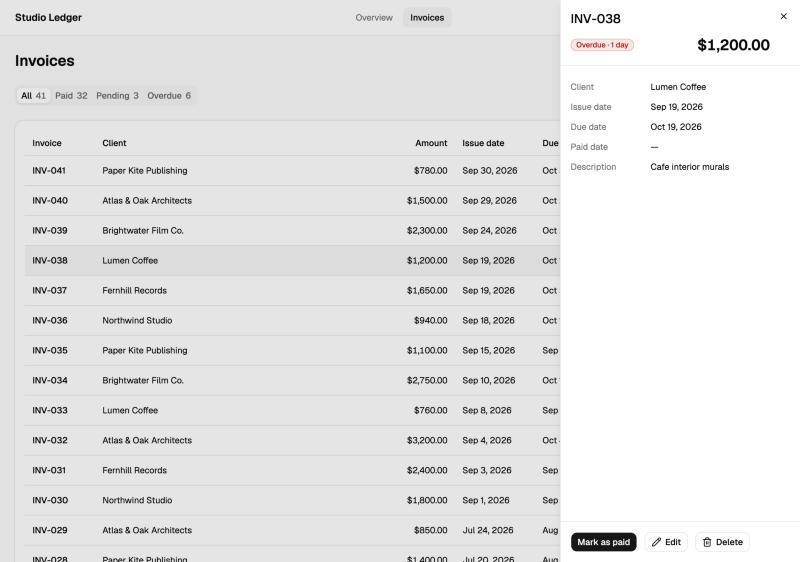
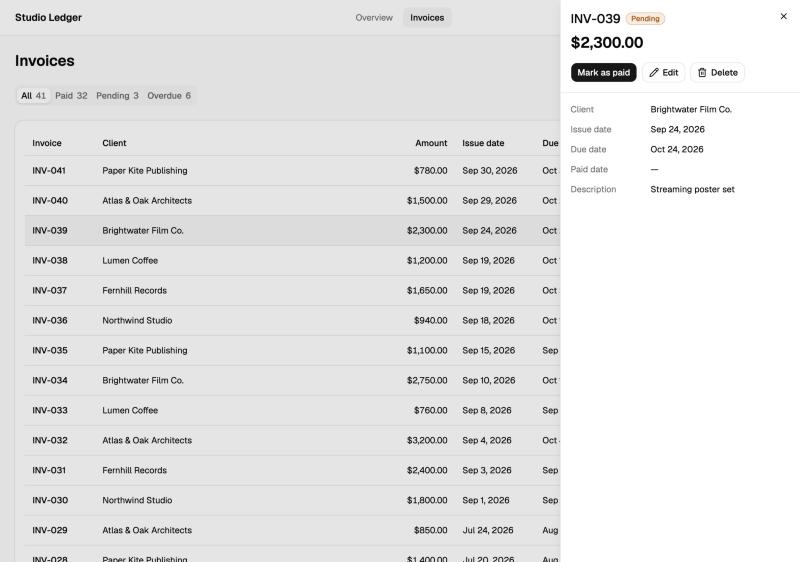
Put the status beside the invoice number and the actions under the amount
Tighter spacing in the invoice panel: number and status on one line,
the amount below, then Mark as paid / Edit / Delete, then the details.

diff --git a/src/components/invoices/invoice-sheet.tsx b/src/components/invoices/invoice-sheet.tsx
@@ -54,17 +54,64 @@ function InvoiceDetails({
 
   return (
     <>
-      <SheetHeader className="gap-3 border-b pr-12">
-        <SheetTitle className="text-xl">{invoice.invoiceNumber}</SheetTitle>
-        <SheetDescription className="sr-only">Invoice details</SheetDescription>
-        <div className="flex items-center justify-between gap-4">
+      <SheetHeader className="gap-2 border-b pr-12">
+        <div className="flex items-center gap-2">
+          <SheetTitle className="text-xl">{invoice.invoiceNumber}</SheetTitle>
           <InvoiceStatusBadge
             status={status}
             daysOverdue={status === 'Overdue' ? daysBetween(invoice.dueDate, today) : undefined}
           />
-          <p className="text-2xl font-semibold tabular-nums">
-            {formatMoney(invoice.amount, APP_CURRENCY)}
-          </p>
+        </div>
+        <SheetDescription className="sr-only">Invoice details</SheetDescription>
+        <p className="text-2xl font-semibold text-foreground tabular-nums">
+          {formatMoney(invoice.amount, APP_CURRENCY)}
+        </p>
+        <div className="flex flex-wrap gap-2 pt-2">
+          {status === 'Paid' ? (
+            <Button
+              variant="outline"
+              onClick={() => {
+                markInvoiceNotPaid(invoice.id)
+                toast.success(`${invoice.invoiceNumber} is no longer Paid`)
+              }}
+            >
+              Mark as not paid
+            </Button>
+          ) : (
+            <MarkPaidDialog invoice={invoice} trigger={<Button>Mark as paid</Button>} />
+          )}
+          <Button variant="outline" onClick={() => setEditing(true)}>
+            <PencilIcon /> Edit
+          </Button>
+          <AlertDialog>
+            <AlertDialogTrigger asChild>
+              <Button variant="outline">
+                <Trash2Icon /> Delete
+              </Button>
+            </AlertDialogTrigger>
+            <AlertDialogContent>
+              <AlertDialogHeader>
+                <AlertDialogTitle>Delete {invoice.invoiceNumber}?</AlertDialogTitle>
+                <AlertDialogDescription>
+                  {formatMoney(invoice.amount, APP_CURRENCY)} for {client?.name ?? 'Unknown client'}{' '}
+                  is removed from every total. This can't be undone.
+                </AlertDialogDescription>
+              </AlertDialogHeader>
+              <AlertDialogFooter>
+                <AlertDialogCancel>Cancel</AlertDialogCancel>
+                <AlertDialogAction
+                  variant="destructive"
+                  onClick={() => {
+                    deleteInvoice(invoice.id)
+                    toast.success(`${invoice.invoiceNumber} deleted`)
+                    onDeleted()
+                  }}
+                >
+                  Delete invoice
+                </AlertDialogAction>
+              </AlertDialogFooter>
+            </AlertDialogContent>
+          </AlertDialog>
         </div>
       </SheetHeader>
 
@@ -76,54 +123,6 @@ function InvoiceDetails({
           </div>
         ))}
       </dl>
-
-      <div className="mt-auto flex flex-wrap gap-3 border-t p-4">
-        {status === 'Paid' ? (
-          <Button
-            variant="outline"
-            onClick={() => {
-              markInvoiceNotPaid(invoice.id)
-              toast.success(`${invoice.invoiceNumber} is no longer Paid`)
-            }}
-          >
-            Mark as not paid
-          </Button>
-        ) : (
-          <MarkPaidDialog invoice={invoice} trigger={<Button>Mark as paid</Button>} />
-        )}
-        <Button variant="outline" onClick={() => setEditing(true)}>
-          <PencilIcon /> Edit
-        </Button>
-        <AlertDialog>
-          <AlertDialogTrigger asChild>
-            <Button variant="outline">
-              <Trash2Icon /> Delete
-            </Button>
-          </AlertDialogTrigger>
-          <AlertDialogContent>
-            <AlertDialogHeader>
-              <AlertDialogTitle>Delete {invoice.invoiceNumber}?</AlertDialogTitle>
-              <AlertDialogDescription>
-                {formatMoney(invoice.amount, APP_CURRENCY)} for {client?.name ?? 'Unknown client'}{' '}
-                is removed from every total. This can't be undone.
-              </AlertDialogDescription>
-            </AlertDialogHeader>
-            <AlertDialogFooter>
-              <AlertDialogCancel>Cancel</AlertDialogCancel>
-              <AlertDialogAction
-                variant="destructive"
-                onClick={() => {
-                  deleteInvoice(invoice.id)
-                  toast.success(`${invoice.invoiceNumber} deleted`)
-                  onDeleted()
-                }}
-              >
-                Delete invoice
-              </AlertDialogAction>
-            </AlertDialogFooter>
-          </AlertDialogContent>
-        </AlertDialog>
-      </div>
 
       <InvoiceFormDialog
         open={editing}
@@ -157,7 +156,7 @@ export function InvoiceSheet({
 
   return (
     <Sheet open={invoiceNumber !== undefined} onOpenChange={(open) => !open && onClose()}>
-      <SheetContent className="w-full gap-6 sm:max-w-md">
+      <SheetContent className="w-full gap-4 sm:max-w-md">
         {shown ? (
           <InvoiceDetails invoice={shown} onNumberChange={onNumberChange} onDeleted={onClose} />
         ) : (
